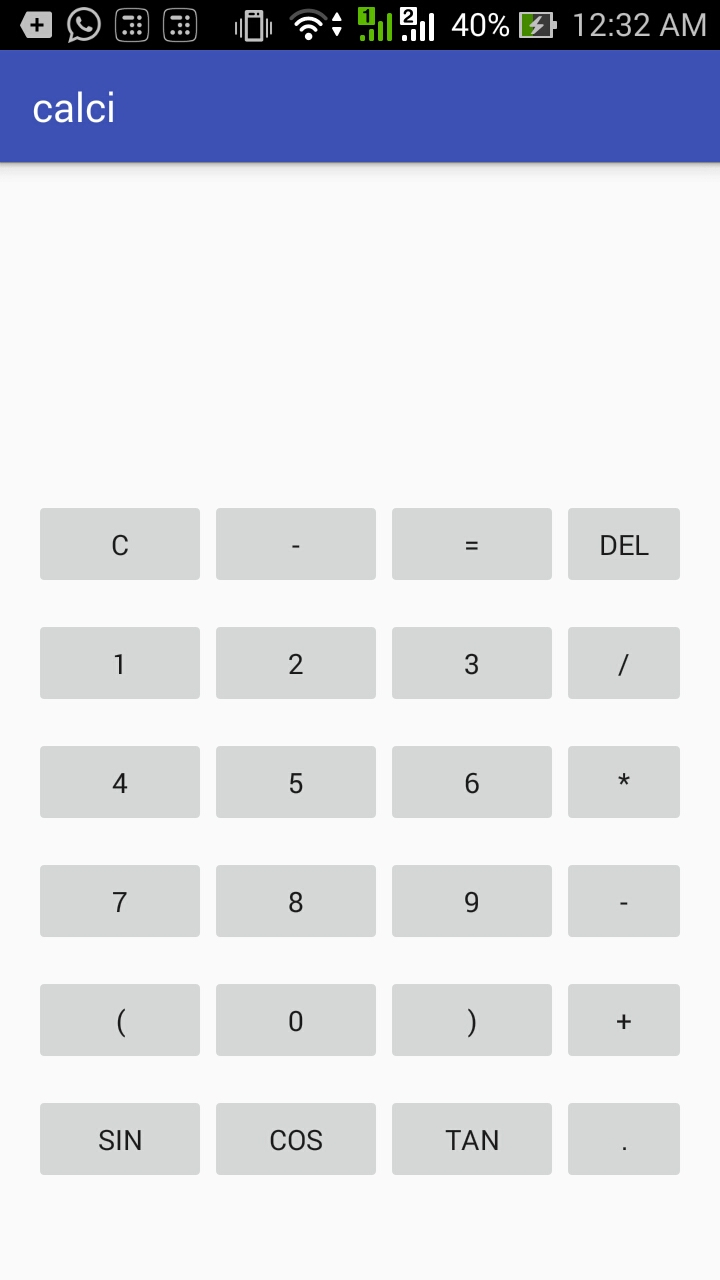
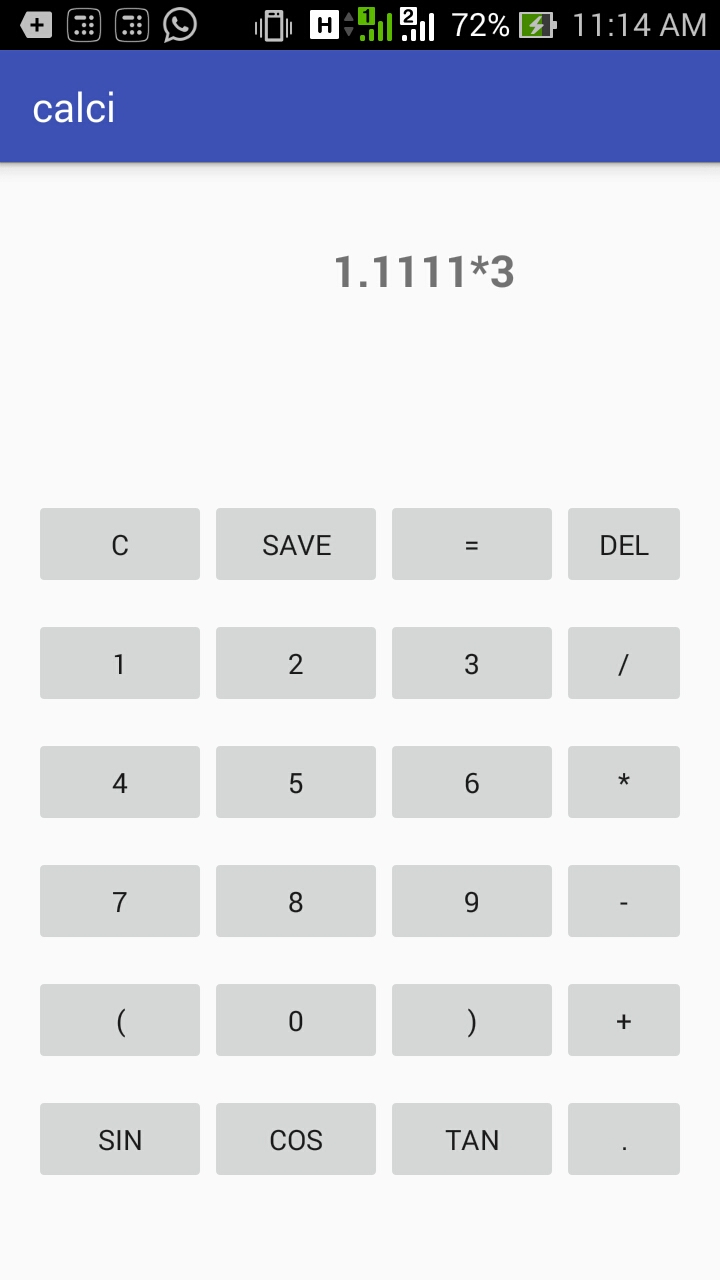
memory recall adde in b3

diff --git a/Sem-2/CL3/Practice/B3/app/src/main/java/com/example/sanika/calci/MainActivity.java b/Sem-2/CL3/Practice/B3/app/src/main/java/com/example/sanika/calci/MainActivity.java
@@ -1,11 +1,13 @@
 package com.example.sanika.calci;
 
 import android.content.Context;
+import android.content.SharedPreferences;
 import android.renderscript.Double2;
 import android.support.v7.app.AppCompatActivity;
 import android.os.Bundle;
 import android.util.Log;
 import android.view.View;
+import android.widget.Button;
 import android.widget.EditText;
 import android.widget.TextView;
 
@@ -23,6 +25,8 @@ public class MainActivity extends AppCompatActivity {
     String expr="";
     int operator = 0;
     int flag=0;
+    int save=1;
+    MemorySaveRecall memorysave;
     @Override
     protected void onCreate(Bundle savedInstanceState) {
         super.onCreate(savedInstanceState);
@@ -30,6 +34,7 @@ public class MainActivity extends AppCompatActivity {
         String filename = "input.txt";
         String expr= "3+5";
         FileOutputStream outputstream;
+        memorysave = new MemorySaveRecall(getApplicationContext());
         try {
         outputstream = openFileOutput(filename, Context.MODE_PRIVATE);
 
@@ -184,6 +189,31 @@ public class MainActivity extends AppCompatActivity {
         DecimalFormat twoDForm = new DecimalFormat("#.###");
         return Double.valueOf(twoDForm.format(d));
     }
+    public  void onClickSave(View v){
+        if(save==1){
+            TextView textview = (TextView)findViewById(R.id.input);
+            String res= textview.getText().toString();
+            memorysave.saveResult(res);
+            save=0;
+            Button button = (Button)findViewById(R.id.save);
+            button.setText("RECALL");
+            expr="";
+            textview.setText("");
+        }
+        else{
+
+            String res= memorysave.recallResult();
+            save=1;
+
+            TextView textview = (TextView)findViewById(R.id.input);
+            textview.setText(textview.getText() + res);
+            Button button = (Button)findViewById(R.id.save);
+            button.setText("SAVE");
+            expr+=res;
+        }
+
+    }
+
 
 
     public static double calculate(String expr,int operator,int flag) {
@@ -236,7 +266,7 @@ public class MainActivity extends AppCompatActivity {
             }
 
         }
-
+//res = roundThreeDecimals(res);
  return res;
     }
 }

diff --git a/Sem-2/CL3/Practice/B3/app/src/main/java/com/example/sanika/calci/MemorySaveRecall.java b/Sem-2/CL3/Practice/B3/app/src/main/java/com/example/sanika/calci/MemorySaveRecall.java
@@ -1,0 +1,32 @@
+package com.example.sanika.calci;
+
+import android.content.Context;
+import android.content.SharedPreferences;
+
+/**
+ * Created by Sanika on 17-Apr-17.
+ */
+
+public class MemorySaveRecall {
+    SharedPreferences pref;
+    SharedPreferences.Editor editor;
+    public static  String DATA = "RESULT";
+    public static  String PREF_NAME = "MEMORY_PREF";
+    Context context;
+    public MemorySaveRecall(Context context){
+        this.context  = context;
+        pref =  context.getSharedPreferences(PREF_NAME,Context.MODE_PRIVATE);
+        editor = pref.edit();
+    }
+    void saveResult(String res){
+        editor.putString(DATA,res);
+        editor.commit();
+    }
+
+    String recallResult(){
+        return  pref.getString(DATA,"0");
+
+    }
+
+}
+

diff --git a/Sem-2/CL3/Practice/A5/app/src/main/java/com/example/sanika/calci/MainActivity.java b/Sem-2/CL3/Practice/A5/app/src/main/java/com/example/sanika/calci/MainActivity.java
@@ -236,7 +236,7 @@ public class MainActivity extends AppCompatActivity {
             }
 
         }
-res = roundThreeDecimals(res);
+
  return res;
     }
 }
